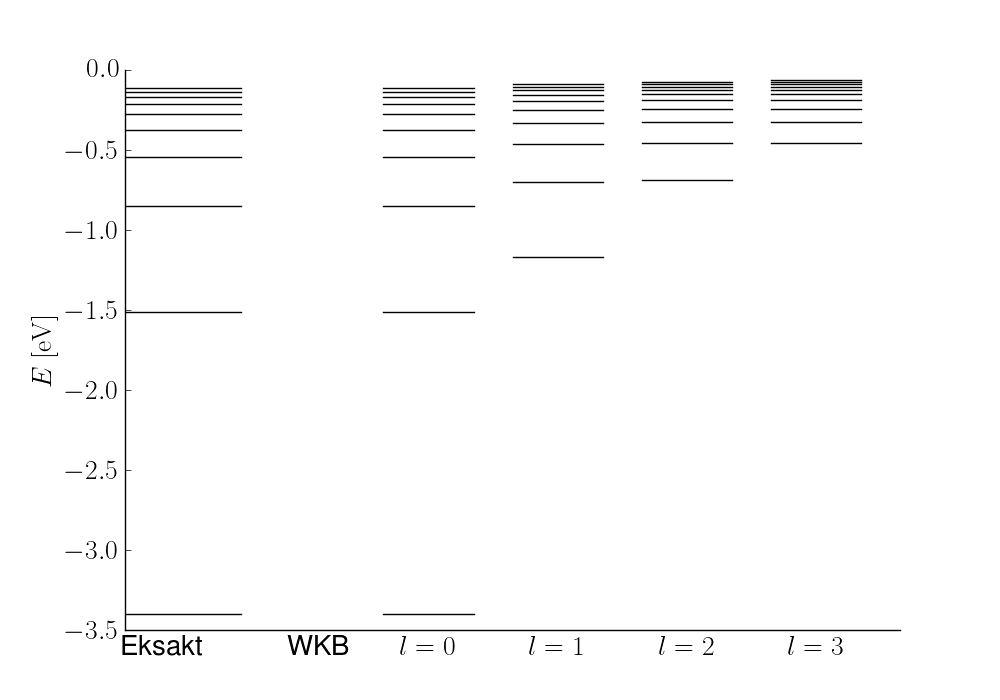
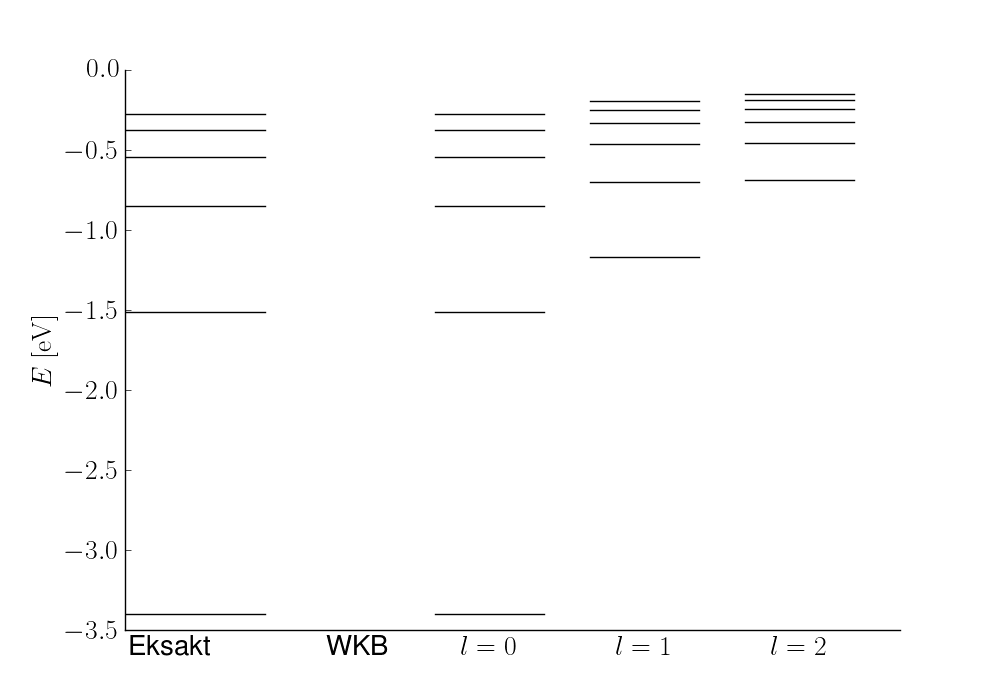
Hej

diff --git a/rapport/del3_brintatomet.tex b/rapport/del3_brintatomet.tex
@@ -133,7 +133,10 @@ Og det giver os altså at
 \end{equation}
 
 %TODO kommenter det her resultat og sammenlign
-
+Dette giver os også at $R(r) = u(r)/r$ bliver
+\begin{equation}
+  R(r) = \frac{1}{a_0}{\left(\frac{r}{a_0}\right)}^{\left[n'-1+\sqrt{l(l+1)}\right]} e^{\left[\frac{1-\frac{r}{a_0}}{n'+\sqrt{l(l+1)}}\right]}
+\end{equation}
 Plottes $V_{\text{eff}}$
 
 \begin{figure}[h!]

diff --git a/rapport/energiplotTest.py b/rapport/energiplotTest.py
@@ -66,9 +66,9 @@ ax1.legend(loc=5)
 
 
 
-noOfl = 4
+noOfl = 3
 n_start = 2
-n_end = 12
+n_end = 8
 l_start = 4
 
 fig2,ax2 = plt.subplots()
@@ -117,7 +117,7 @@ plt.tick_params(
 
 fig2.savefig("energyPlot.png")
 plt.tight_layout()
-
+# plt.grid()
 
 
 plt.show()
